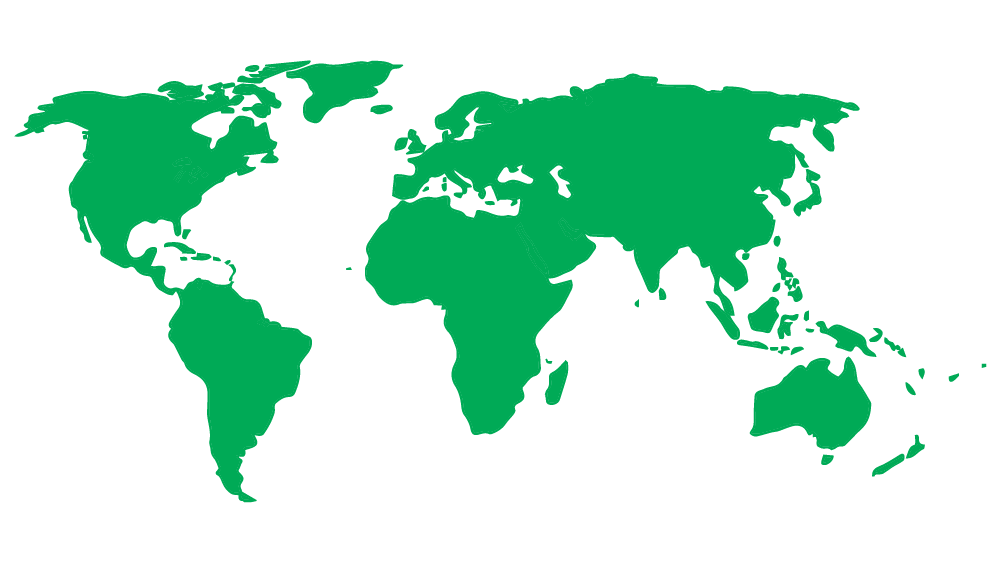
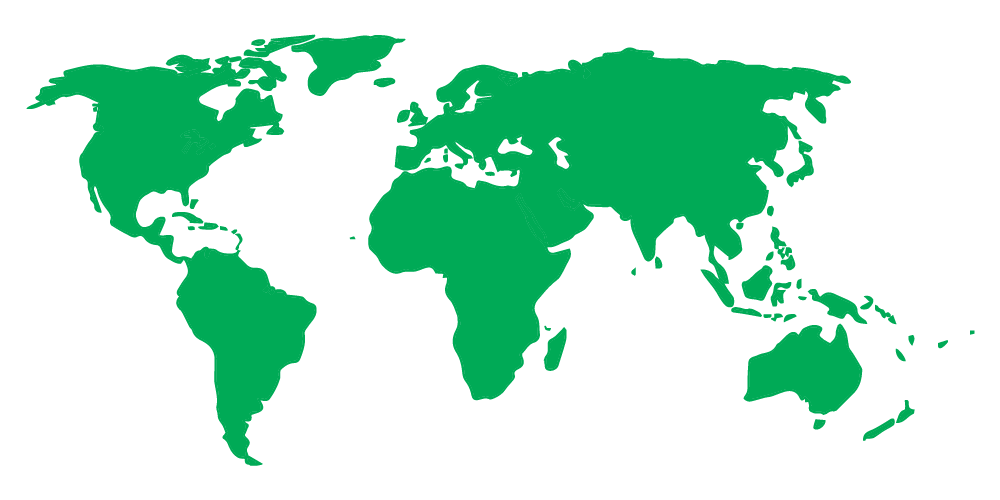
implement map pins

diff --git a/src/components/game/input.jsx b/src/components/game/input.jsx
@@ -1,11 +1,11 @@
 import React, { useState, useEffect, useRef } from "react";
 import { connect } from "react-redux";
 import { searchCity } from "../../actions/geo_actions";
-import getDistance from "../../util/distance";
+import {getDistance, pinLoc} from "../../util/distance";
 import Targets from "../../util/target_cities";
 import cityDisplay from "../../util/city_display";
-import Nav from "../nav";
 import World from "../../img/world.png"
+import Map from "./map";
 
 
 const mSTP = state => ({
@@ -19,6 +19,7 @@ const mDTP = dispatch => ({
 
 const Input = props => {
   const [cities, setCities] = useState([])
+  const [mapPins, setMapPins] = useState([])
   const [city, setCity] = useState("")
   const [won, setWon] = useState(false)
   const [targetCity, setTargetCity] = useState(Targets[Math.floor(Math.random() * Targets.length)])
@@ -45,6 +46,10 @@ const Input = props => {
       setWon(true)
     } else if (!cityResults[city]) {
       searchCity(city)
+        .then(res => {
+          setMapPins([...mapPins, pinLoc(res.city.latitude, res.city.longitude)])
+        }
+        )
     }
     setCities([city, ...cities])
     setCity("")
@@ -64,14 +69,13 @@ const Input = props => {
       <div>
         <h1>Citadle</h1>
         <p className="error">Error: Daily API Limit reached!</p>
-        <Nav />
       </div>
     )
   }
 
   return (
     <>
-    <div id='inputwrap'>
+    <div className='inputwrap'>
       <h1>Citadle</h1>
       
       {won === false ? <form onSubmit={submitCity}>
@@ -79,7 +83,11 @@ const Input = props => {
         <input type="text" onChange={handleChange} value={city} ref={searchBar} />
         <button onClick={submitCity}>Guess</button>
         </form> : <div>{`Winner with ${cities.length} guesses!`}</div>}
-      <img src={World} className="worldMap" alt="world-map" />
+
+      <div className="worldDiv">
+          <img src={World} className="worldMap" alt="world-map" />
+          <Map mapPins={mapPins} /> 
+      </div>
       <section className="cities">
         <table className="cityTable">
           <thead>

diff --git a/src/components/game/map.jsx b/src/components/game/map.jsx
@@ -1,0 +1,37 @@
+import React, {useRef, useEffect} from "react";
+
+const Map = props => {
+  const mapRef = useRef(null)
+  const {mapPins} = props
+
+  const draw = (ctx, arr) => {
+    ctx.fillStyle = '#FF0000'
+    ctx.strokeStyle = '#000000'
+    ctx.beginPath()
+    ctx.moveTo(arr[1], (arr[0] - 8))
+    ctx.lineTo(arr[1], arr[0])
+    ctx.lineWidth = 1
+    ctx.stroke()
+    ctx.moveTo(arr[1], (arr[0] - 8))
+    ctx.arc(arr[1], (arr[0] - 8), 2.5, 0, 2 * Math.PI)
+    ctx.fill()
+    
+  }
+
+  useEffect(() => {
+    const canvas = mapRef.current
+    const context = canvas.getContext('2d')
+
+    if (mapPins.length > 0){
+      mapPins.map((pin) => {
+        draw(context, pin)
+      })
+    }
+  }, [mapPins, draw])
+
+  return(
+      <canvas className="worldCanvas" ref={mapRef} />
+  )
+}
+
+export default Map

diff --git a/src/util/distance.js b/src/util/distance.js
@@ -1,4 +1,4 @@
-const getDistance = (lat1, lon1, lat2, lon2) => {
+export const getDistance = (lat1, lon1, lat2, lon2) => {
   var R = 6371; // Radius of the earth in km
   var dLat = deg2rad(lat2 - lat1);  // deg2rad below
   var dLon = deg2rad(lon2 - lon1);
@@ -25,4 +25,14 @@ function deg2rad(deg) {
   return deg * (Math.PI / 180)
 }
 
-export default getDistance
+export const pinLoc = (lat, long) => {
+  let pin = []
+  lat > 0 ? 
+    pin.push(88 - (lat / 90 * 88)) :
+    pin.push(88 + ((lat * -1) / 90 * 88))
+  long < 0 ?
+    pin.push(125 - ((long * -1) / 180 * 150)) :
+    pin.push(125 + ((long / 180) * 150))
+  if (pin[1] < 0) {pin[1] = pin[1] * -1}
+  return pin
+}

diff --git a/src/store/store.js b/src/store/store.js
@@ -4,8 +4,8 @@ import logger from "redux-logger";
 import { applyMiddleware, createStore } from "redux";
 
 const configureStore = (pState = {}) => (
-  // createStore(RootReducer, pState, applyMiddleware(thunk, logger))
-  createStore(RootReducer, pState, applyMiddleware(thunk))
+  createStore(RootReducer, pState, applyMiddleware(thunk, logger))
+  // createStore(RootReducer, pState, applyMiddleware(thunk))
 )
 
 export default configureStore

diff --git a/src/stylesheets/game.scss b/src/stylesheets/game.scss
@@ -75,8 +75,22 @@
   width: 80vw;
 }
 
-.worldMap {
+.worldMap, .worldCanvas {
   width: 400px;
+  position: absolute;
+  left: 0;
+  top: 0;
 }
 
+
+.worldDiv {
+  position: relative;
+  height: 200px;
+  width: 400px;
+  margin: 0 auto;
+}
+
+.inputwrap {
+  justify-content: center;
+}
 

diff --git a/src/stylesheets/responsive.scss b/src/stylesheets/responsive.scss
@@ -30,7 +30,7 @@
     width: 90vw;
   }
 
-  .worldMap {
+  .worldMap, .worldCanvas, .worldDiv {
     width: 70vw;
   }
 }
